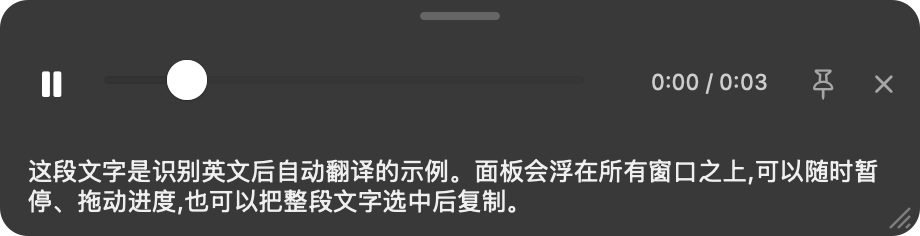
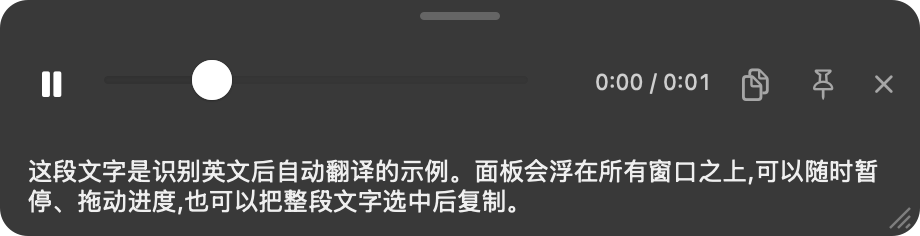
feat: 悬浮面板加一键复制按钮
译文区虽然可以选中后 ⌘C,但整段复制还要全选,不够顺手。
控制条右侧加一个 📋 按钮,点一下把完整译文放进剪贴板,
图标短暂变成绿色对勾(0.9 秒)作为反馈。

- 没有译文时按钮自动隐藏,不占位也不误点
- 纯译文模式(关掉自动朗读 / 系统语音引擎)下依然可用
- 控制条重新排布:播放 / 进度 / 时间 / 复制 / 钉住 / 关闭,
  已验证六个控件互不重叠且都在面板内

Changed region(s): [[0.6391, 0.2966, 0.8522, 0.4449], [0.1826, 0.2373, 0.2739, 0.4449]]

diff --git a/player.py b/player.py
@@ -154,6 +154,7 @@ class PlaybackHUD(AppKit.NSObject):
         self.play_btn = None
         self.pin_btn = None
         self.close_btn = None
+        self.copy_btn = None
         self.time_label = None
         self.text_label = None
         self.grip = None
@@ -352,6 +353,8 @@ class PlaybackHUD(AppKit.NSObject):
         has_text = bool(translation)
         self.text_label.setStringValue_(translation or "")
         self.text_label.setHidden_(not has_text)
+        if self.copy_btn is not None:
+            self.copy_btn.setHidden_(not has_text)
 
         w = float(self._saved_size["w"]) if self._saved_size else float(W_DEFAULT)
         if self._saved_size:
@@ -391,10 +394,12 @@ class PlaybackHUD(AppKit.NSObject):
 
         self.play_btn.setFrame_(AppKit.NSMakeRect(12, centre, 28, 28))
         self.pin_btn.setFrame_(AppKit.NSMakeRect(w - 62, centre, 28, 28))
+        if self.copy_btn is not None:
+            self.copy_btn.setFrame_(AppKit.NSMakeRect(w - 96, centre, 28, 28))
         self.close_btn.setFrame_(
             AppKit.NSMakeRect(w - 26, bar_y + (bar_h - 16) / 2, 16, 16))
-        self.time_label.setFrame_(AppKit.NSMakeRect(w - 158, bar_y + 20, 84, 16))
-        slider_w = max(w - 216.0, 60.0)
+        self.time_label.setFrame_(AppKit.NSMakeRect(w - 186, bar_y + 20, 84, 16))
+        slider_w = max(w - 244.0, 60.0)
         self.slider.setFrame_(AppKit.NSMakeRect(50, bar_y + 19, slider_w, 18))
 
         text_h = max(h - self.chrome_height() - 18.0, 0.0)
@@ -477,6 +482,20 @@ class PlaybackHUD(AppKit.NSObject):
         self.time_label = label
         content.addSubview_(label)
 
+        # 复制全部译文
+        copy_btn = AppKit.NSButton.alloc().initWithFrame_(
+            AppKit.NSMakeRect(0, 0, 28, 28))
+        copy_btn.setBordered_(False)
+        copy_btn.setImagePosition_(AppKit.NSImageOnly)
+        copy_btn.setTarget_(self)
+        copy_btn.setAction_("copyAll:")
+        cimg2 = _symbol("doc.on.doc", 13)
+        if cimg2 is not None:
+            copy_btn.setImage_(cimg2)
+        copy_btn.setContentTintColor_(_white(0.55))
+        self.copy_btn = copy_btn
+        content.addSubview_(copy_btn)
+
         # 钉住
         pin = AppKit.NSButton.alloc().initWithFrame_(AppKit.NSMakeRect(0, 0, 28, 28))
         pin.setBordered_(False)
@@ -549,6 +568,28 @@ class PlaybackHUD(AppKit.NSObject):
         self.player.setCurrentTime_(float(sender.doubleValue()))
         self._finished = False
         self._refresh_time()
+
+    def copyAll_(self, sender):
+        """一键把完整译文放进剪贴板。"""
+        text = self.text_label.stringValue()
+        if not text:
+            return
+        pb = AppKit.NSPasteboard.generalPasteboard()
+        pb.clearContents()
+        pb.setString_forType_(text, AppKit.NSPasteboardTypeString)
+        # 短暂变成一个对勾,给个反馈
+        img = _symbol("checkmark", 13)
+        if img is not None:
+            self.copy_btn.setImage_(img)
+        self.copy_btn.setContentTintColor_(AppKit.NSColor.systemGreenColor())
+        AppKit.NSTimer.scheduledTimerWithTimeInterval_target_selector_userInfo_repeats_(
+            0.9, self, "restoreCopyIcon:", None, False)
+
+    def restoreCopyIcon_(self, timer):
+        img = _symbol("doc.on.doc", 13)
+        if img is not None:
+            self.copy_btn.setImage_(img)
+        self.copy_btn.setContentTintColor_(_white(0.55))
 
     def togglePin_(self, sender):
         self.pinned = not self.pinned

diff --git a/README.md b/README.md
@@ -127,6 +127,7 @@ open ~/Applications/SnapSpeak.app
 |---|---|
 | ▶ / ⏸ | 暂停 / 继续 |
 | 进度条 | 拖到哪儿从哪儿播 |
+| 📋 | **一键复制**完整译文(点一下变绿对勾,0.9 秒后复原) |
 | 📌 | 钉住:播完不消失,方便慢慢看译文 |
 | ✕ | 关闭(顺手删掉临时音频) |
 | **顶部小横条** | 拖动面板,位置记住 |
